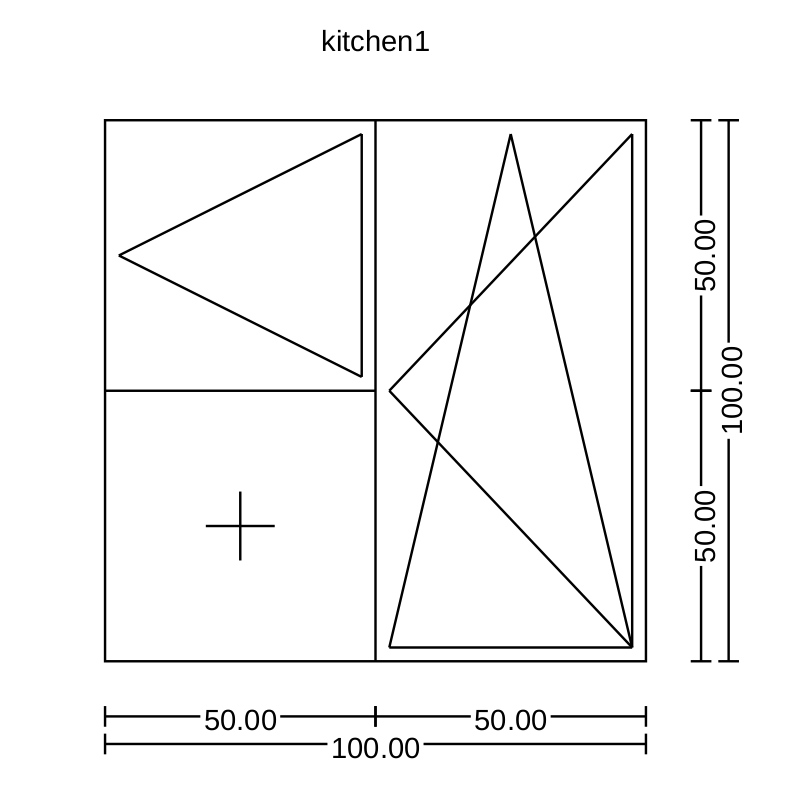
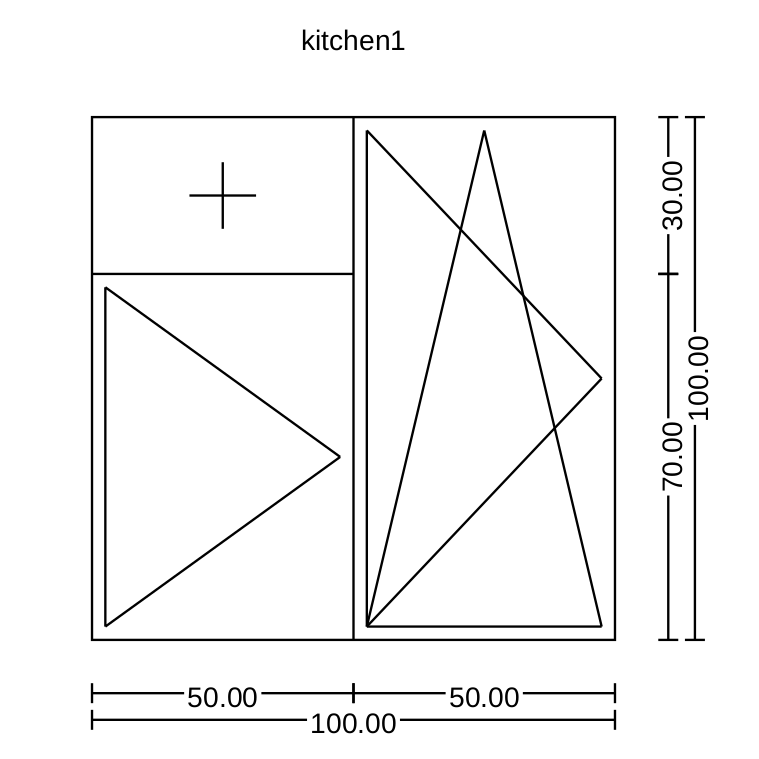
Update README.md and screenshot

diff --git a/README.md b/README.md
@@ -17,7 +17,8 @@ In other words given this:
                     {
                         "type": "horizontal",
                         "pieces": [
-                            {}, {"opens": "left"}
+                            {"size": 30},
+                            {"opens": "left"}
                         ]
                     },
                     {
